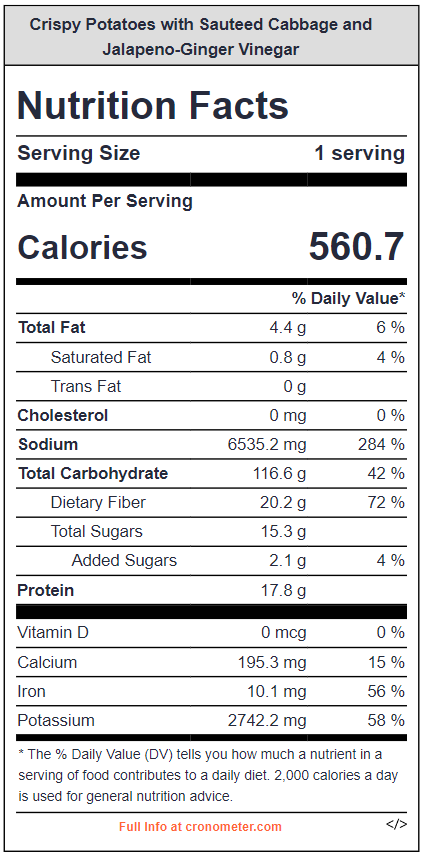
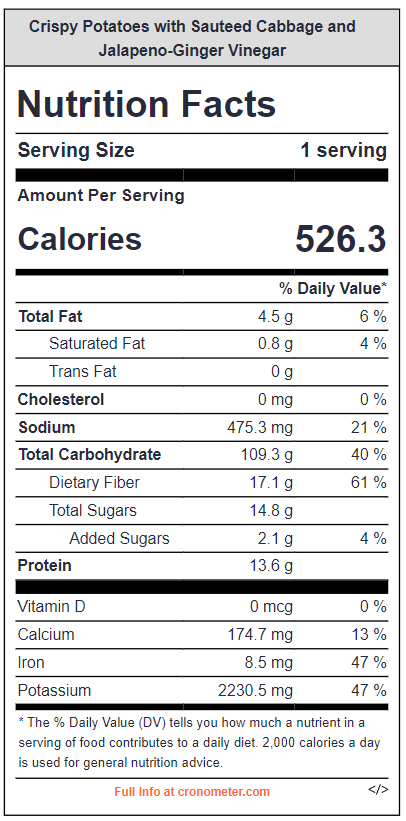
added more image files

Changed region(s): [[0.0, 0.0, 1.0, 1.0], [0.8867, 0.6395, 0.9458, 0.6699]]

diff --git a/_posts/2021-06-14-indian-chickpea-masala-curry.md b/_posts/2021-06-14-indian-chickpea-masala-curry.md
@@ -42,3 +42,7 @@ This is one of the simplest recipes we make, involving very few steps (as you’
 2. Add the garlic, ginger, cumin seeds, and tomato paste and stir, cooking for another minute or so. Then add the remaining spices and cook for another 30 seconds until fragrant.
 3. Add the chickpeas, crushed tomatoes, coconut milk, and 1 tsp. of salt and stir to combine. Add water at this point if you’d like a thinner sauce in the curry. Simmer for another 5-10 minutes.
 4. Serve the curry over rice and alongside a roasted vegetable (cabbage is great) or a salad.
+
+<h3> Nutrition Facts </h3>
+
+<iframe title="CRONOMETER.com" width="320" height="540" src="https://cronometer.com/facts.html?food=30582387&measure=0&labelType=AMERICAN_2016" frameborder="0"></iframe>
